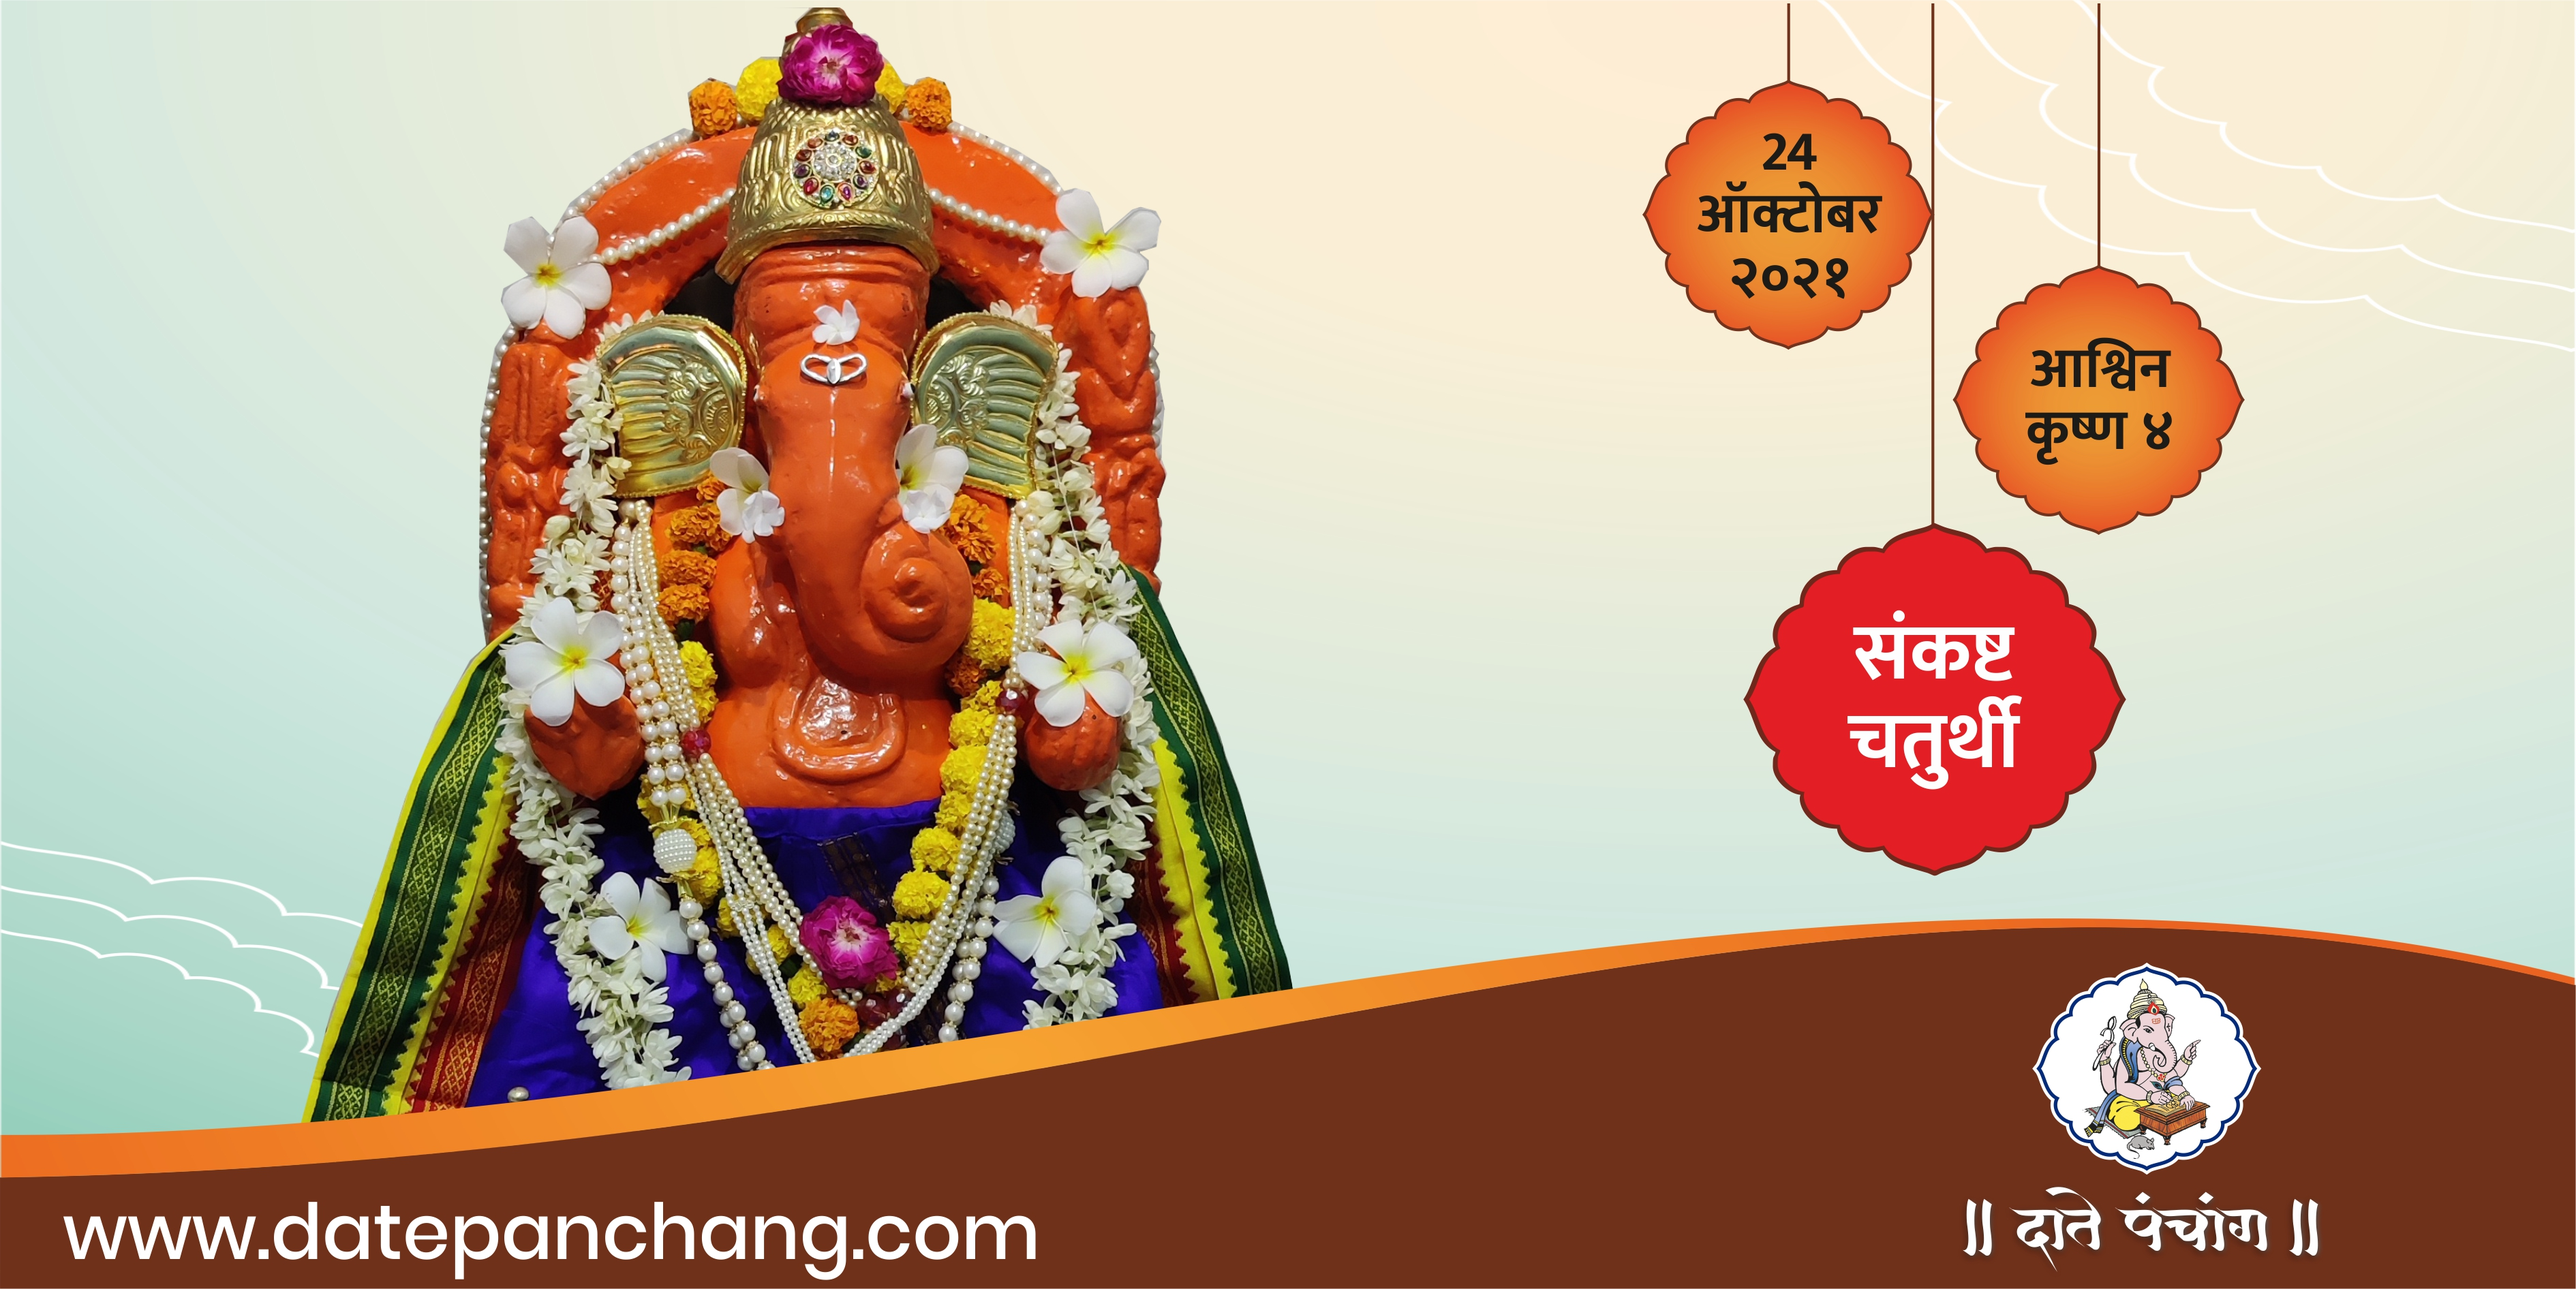
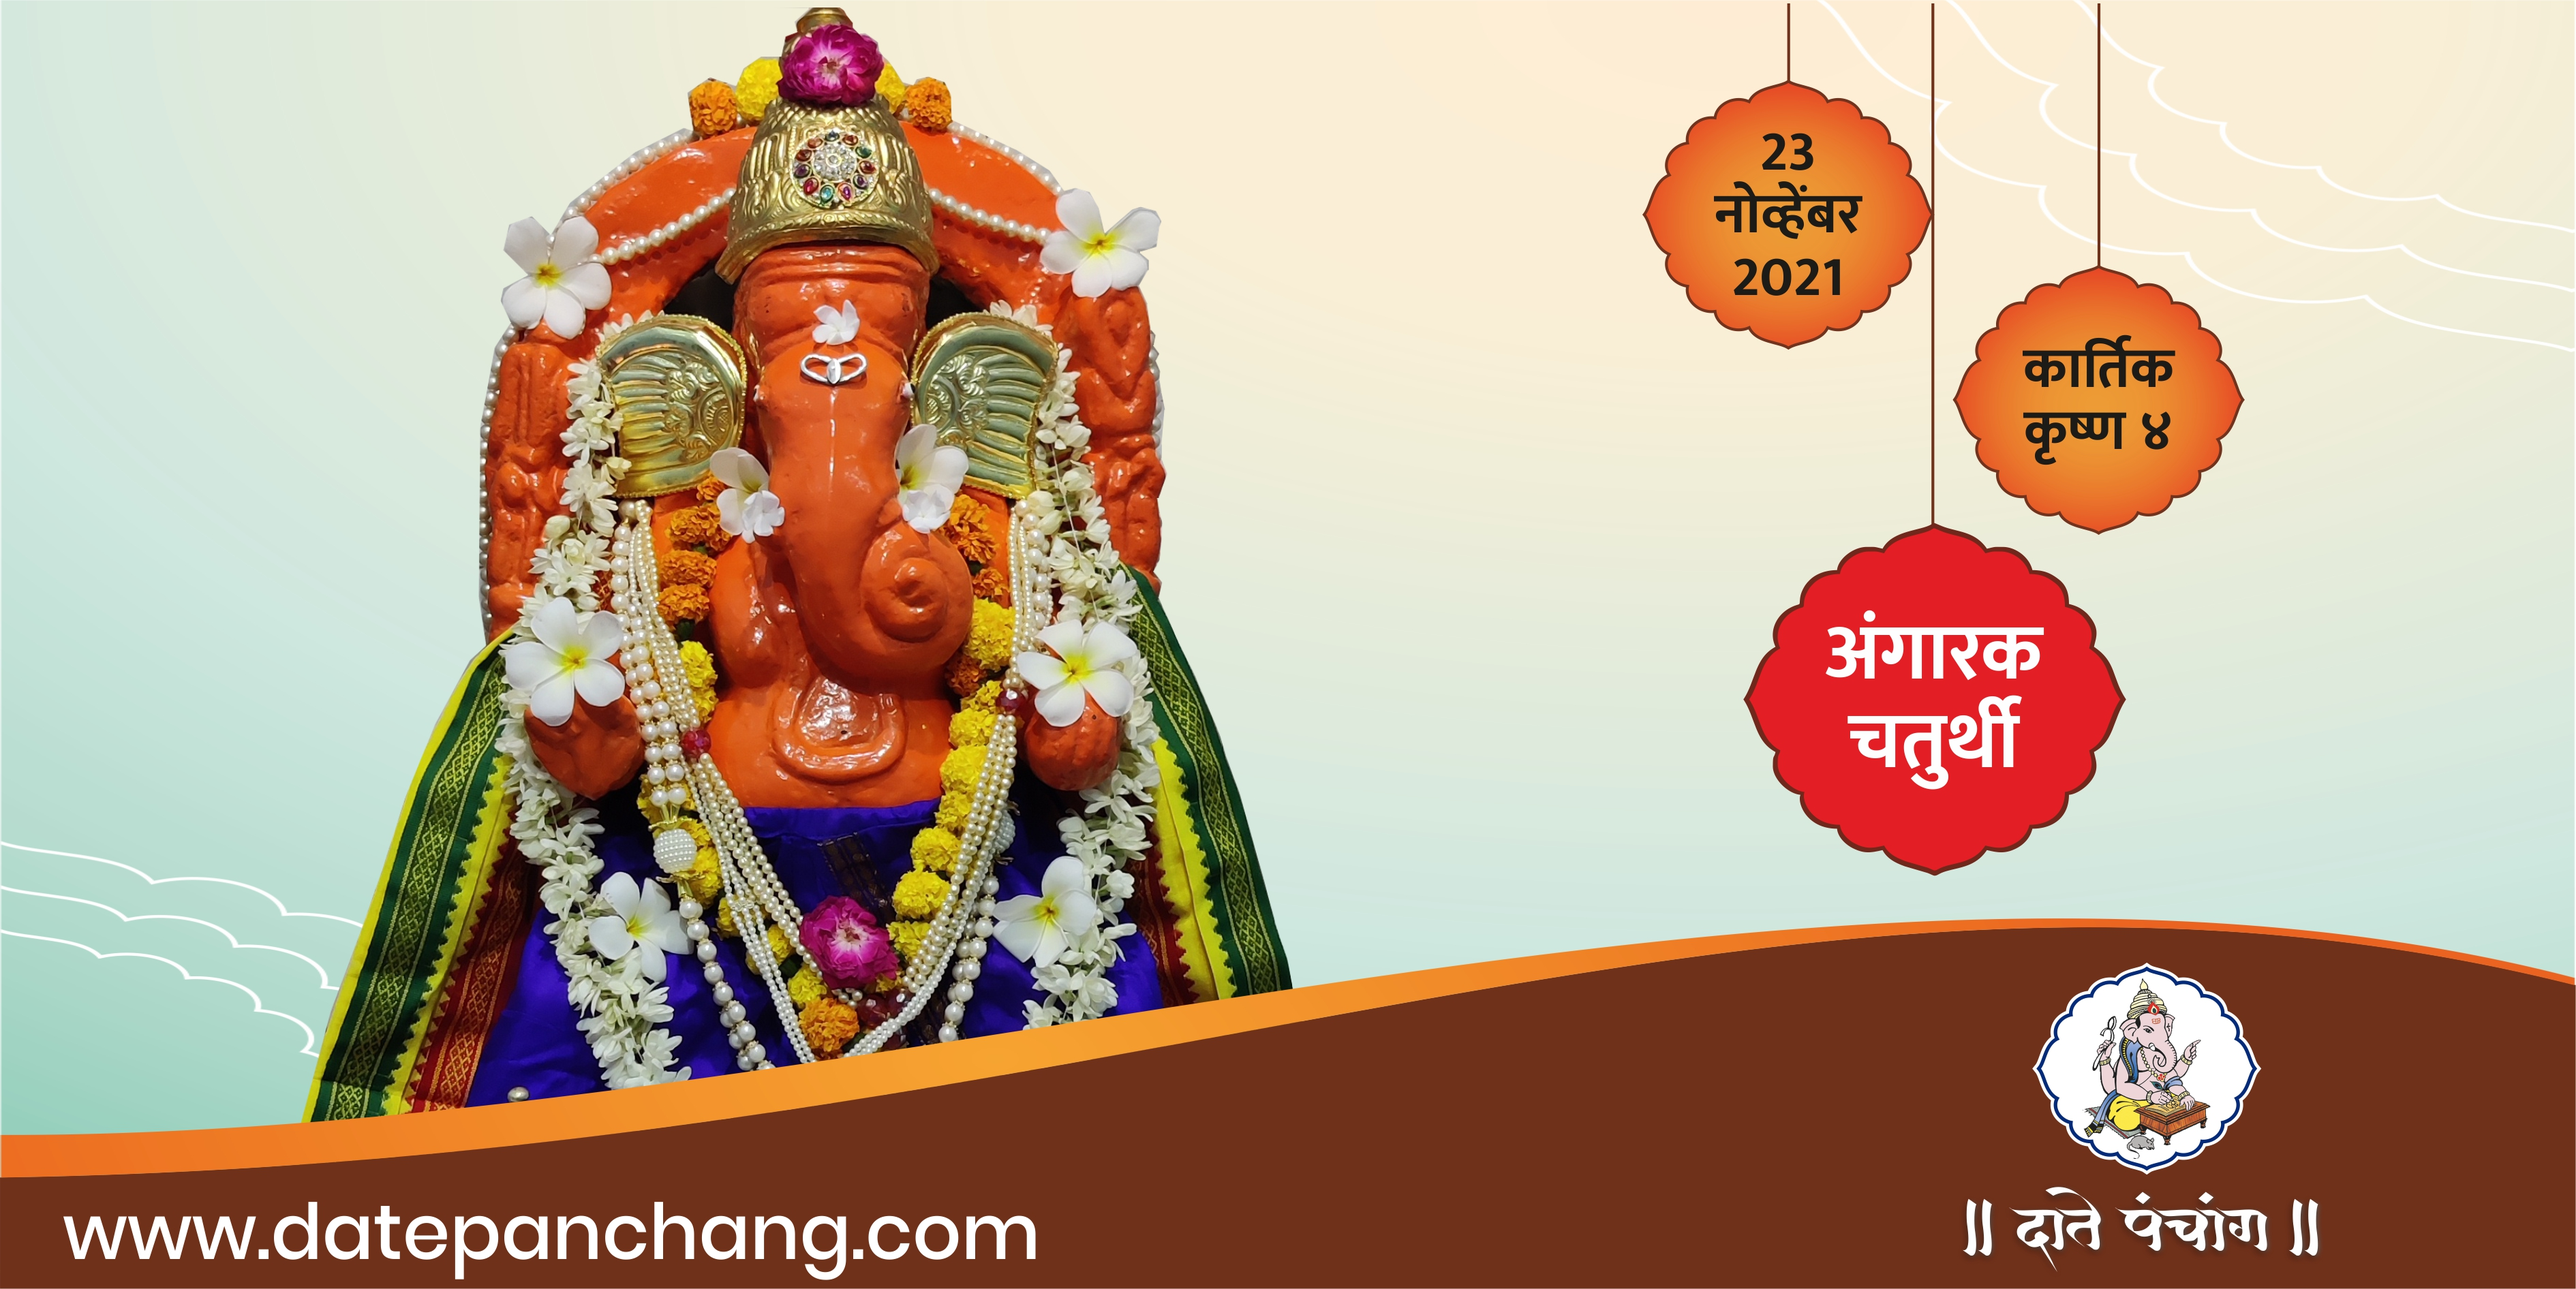
23 Nov Chaturthi

Changed region(s): [[0.6556, 0.0936, 0.7492, 0.2495], [0.6868, 0.4678, 0.8116, 0.5301], [0.7804, 0.2495, 0.8429, 0.343]]

diff --git a/src/2021/Sankashta Chaturthi.html b/src/2021/Sankashta Chaturthi.html
@@ -4,7 +4,7 @@
     <meta http-equiv="Content-Type" content="text/html; charset=UTF-8" />
     <meta http-equiv="X-UA-Compatible" content="IE=edge" />
     <meta name="viewport" content="width=device-width, initial-scale=1.0" />
-    <title>संकष्ट चतुर्थी</title>
+    <title>अंगारक चतुर्थी</title>
     <meta
       name="description"
       content="Date Panchang Sankashta Chaturthi(Angarak Chaturthi)"
@@ -348,7 +348,7 @@
           />
           <div id="seva-title">
             <div id="leading">
-              <div class="title-text marathi">संकष्ट चतुर्थी</div>
+              <div class="title-text marathi">संकष्ट चतुर्थी (अंगारक योग)</div>
             </div>
             <a
               id="share"
@@ -356,7 +356,7 @@
             ></a>
           </div>
           <div class="sub-title marathi">
-            कृष्ण पक्षातील चंद्रोदय व्यापिनी चतुर्थीचे दिवशी हे व्रत केले जाते.
+            कृष्ण पक्षातील चंद्रोदय व्यापिनी चतुर्थीचे दिवशी संकष्ट चतुर्थीचे व्रत केले जाते, या दिवशी मंगळवार असता अंगारक योग होतो हा योग विशेष पुण्यकारक मानला जातो.
           </div>
         </header>
         <div id="description">
@@ -366,8 +366,10 @@
               महासिद्धिदायक असे व्रत आहे. प्रत्येक महिन्याच्या कृष्ण पक्षात जी
               चतुर्थी असते, त्या चतुर्थीस 'संकष्ट चतुर्थी' असे म्हणतात. या दिवशी
               दिवसभर उपवास करावयाचा असतो. सायंकाळी अंघोळ करून अथर्वशीर्ष अथवा
-              गणेशाचे जे स्तोत्र येत असेल ते म्हणत गणपतीची षोडशोपचार पूजा करावी,
-              गणेशाला दूर्वा आणि लाल फूल प्रिय मानले जाते त्यामुळे या दिवशी
+              गणेशाचे जे स्तोत्र येत असेल ते म्हणत गणपतीची षोडशोपचार पूजा करावी.
+              <br />या व्रताचे दिवशी मंगळवार असता अंगारक योग होतो. या दिवशी केलेल्या व्रताचे विशेष फल सांगितले आहे.
+              दर महिन्याची संकष्ट चतुर्थी न करणारे देखील अंगारक चतुर्थी आवर्जून करतात. वर्षभरामध्ये साधारण एकदा किंवा दोनदा अंगारक चतुर्थी योग येतो.
+              <br />गणेशाला दूर्वा आणि लाल फूल प्रिय मानले जाते त्यामुळे या दिवशी
               पूजनामध्ये किमान २१ दूर्वांची एक तरी जुडी आणि लाल फूल वाहतात. गणेश
               पूजनानंतर त्यानंतर चंद्राची पूजा करावी, चंद्रदर्शनानंतर भोजन करून
               उपवास सोडावा. श्रीगणपती ही विघ्ननाशक देवता असल्याने या व्रताने
